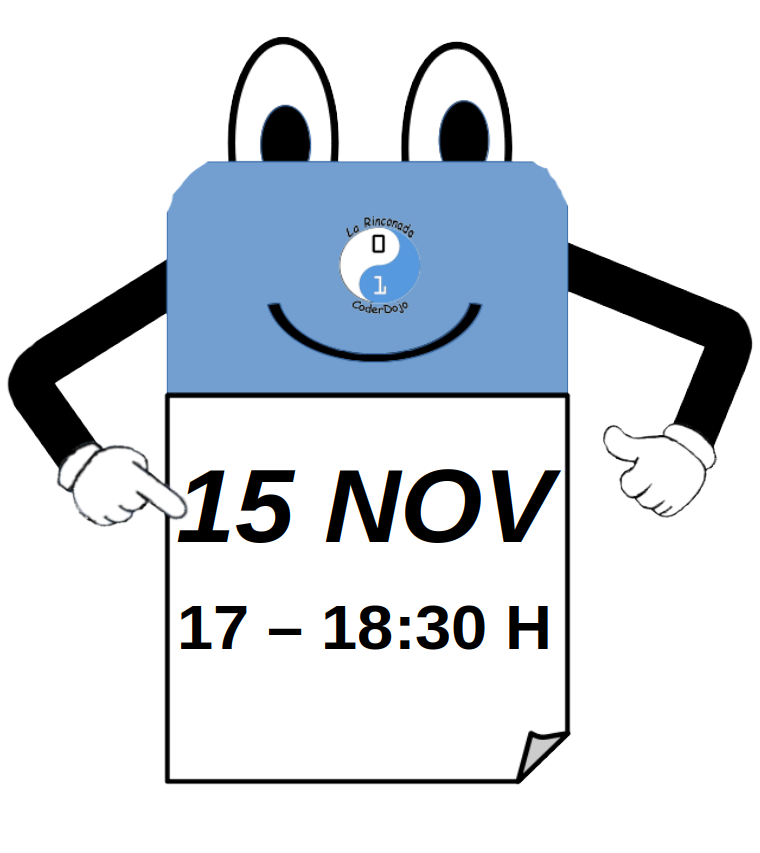
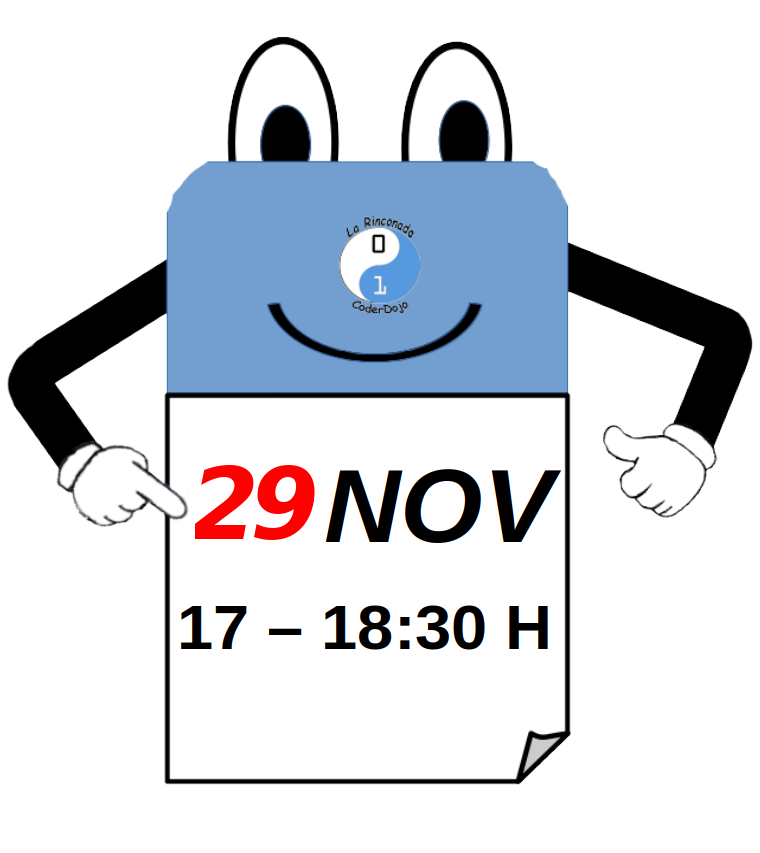
16-11-192

Changed region(s): [[0.2118, 0.5182, 0.4237, 0.6401]]

diff --git a/reservar.md b/reservar.md
@@ -4,7 +4,7 @@ title: Reserva tu plaza para asistir a CoderDojo
 permalink: /reservar/
 ---
 
-### Nuestro próximo evento será el 15 de noviembre de 2019 de 17:00 a 18:30 horas.
+### Nuestro próximo evento será el 29 de noviembre de 2019 de 17:00 a 18:30 horas.
 
 {% include calendario.html %}
   
